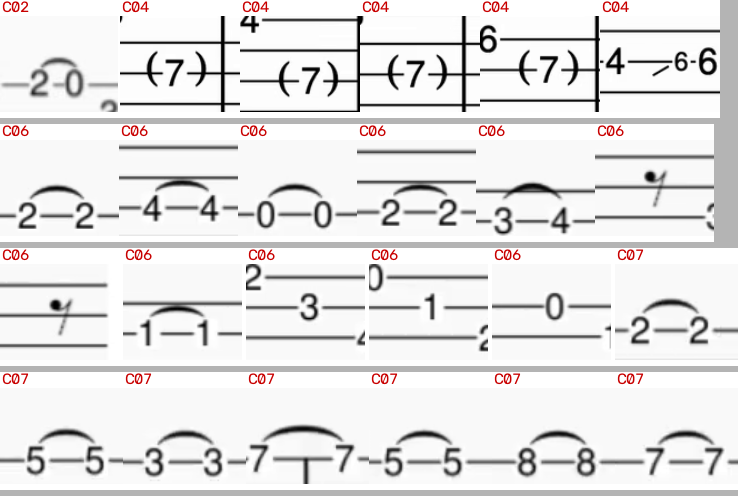
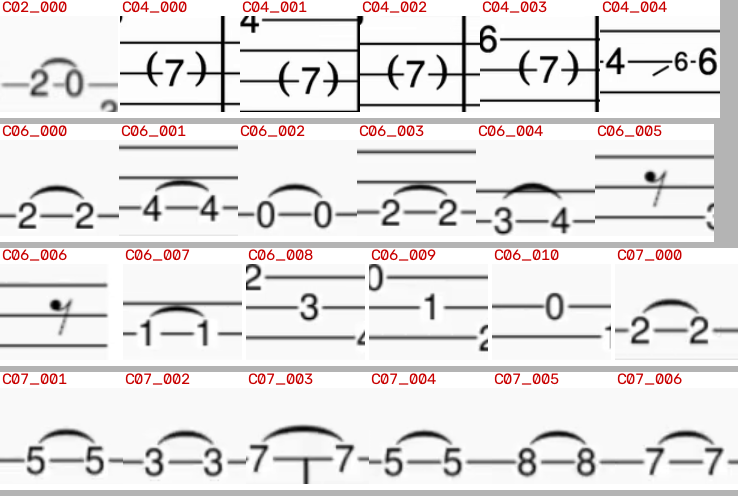
folha de simbolos: ROTULO UNICO por recorte (o dono nao tinha como indicar qual)
O dono: "como eu vou indicar pra voce qual nao e simbolo se o mesmo id se repete? (C06)". Falha de desenho
MINHA: eu rotulava cada recorte so com o prefixo da imagem (`C06`), que aparece 9 vezes na mesma folha —
o recorte ja tinha nome unico no arquivo (`C06_003.png`), mas isso nao estava na folha.

CONSERTO: o rotulo passa a ser o nome do recorte (`C06_003`), unico em toda a folha. Verificado OLHANDO a
folha 0 depois de gerar: C02_000, C04_000, C04_001, C04_002, C04_003, C04_004, C06_000 ... C07_006.

E de novo o metodo: o patch falhou DUAS vezes porque eu adivinhei o texto do arquivo (o ruff format quebra
a linha e a minha ancora nao casa). Resolvido com substituicao simples por expressao, que nao depende da
formatacao — e conferido por LEITURA antes de rodar (grep antes, grep depois).

Gate VERIFICADO por codigo de saida: RUFF CHECK: OK | RUFF FORMAT: OK | PYTEST: OK.

diff --git a/tab/folha_simbolos.py b/tab/folha_simbolos.py
@@ -87,7 +87,7 @@ def main() -> int:
             et = np.full((16, im.shape[1], 3), 255, np.uint8)
             cv2.putText(
                 et,
-                imagem.split("_")[0],
+                nome[:-4],
                 (2, 12),
                 cv2.FONT_HERSHEY_PLAIN,
                 0.9,
